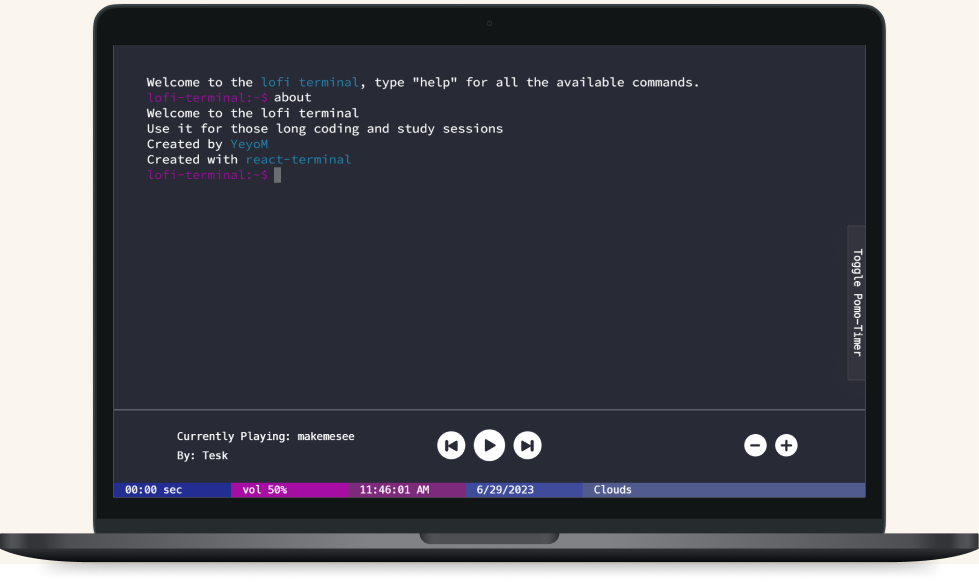
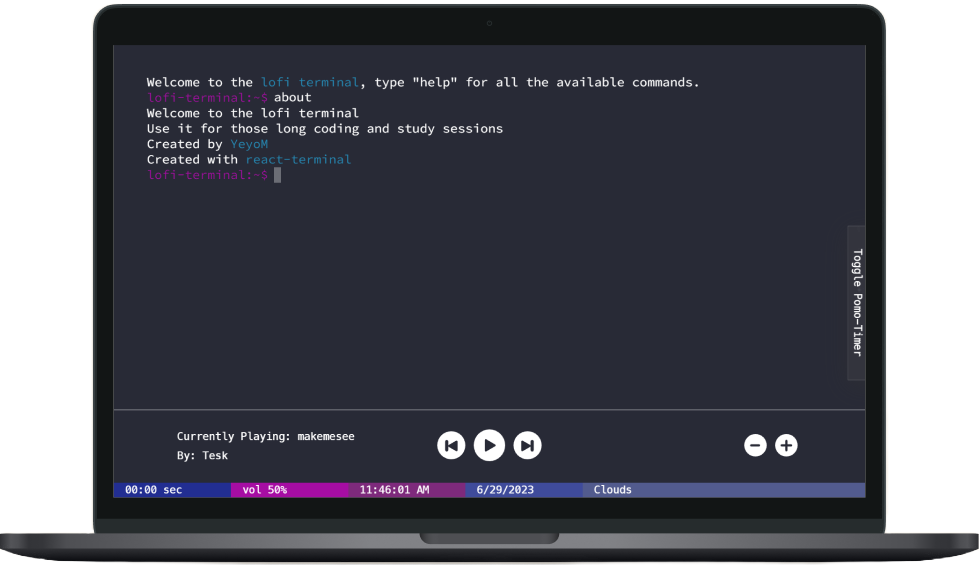
style: :art: Removed background from images and handled resized

Changed region(s): [[0.0306, 0.9588, 0.9499, 0.9897]]

diff --git a/app/page.js b/app/page.js
@@ -1,6 +1,6 @@
-import Image from 'next/image'
-import Navbar from './components/navbar'
-import Footer from './components/footer'
+import Image from "next/image";
+import Navbar from "./components/navbar";
+import Footer from "./components/footer";
 
 export default function Home() {
   return (
@@ -10,29 +10,38 @@ export default function Home() {
         {/* Hero */}
         <div className="flex flex-col w-[90%] max-w-[990px] mt-36">
           <h3 className="text-3xl font-normal text-black tracking-wide sm:text-4xl md:text-5xl">
-          hey, this is Diego! <br />
-          a <span className="font-semibold italic text-[#2292BF]"> software engineer </span> making <br />
-          sites more accessible and <br />
-          reliable. 
+            hey, this is Diego! <br />
+            an aspiring{" "}
+            <span className="font-semibold italic text-[#2292BF]">
+              {" "}
+              site reliability engineer{" "}
+            </span>{" "}
+            making sites more accessible and reliable.
           </h3>
         </div>
         <hr className="w-[90%] max-w-[990px] border-black border-opacity-50 mt-12" />
         {/* Status */}
         <div className="flex flex-col w-[90%] max-w-[990px] mt-6">
           <p className="text-md font-normal text-black tracking-wide">
-          Currently. <span className="italic font-semibold">Computer Science student @ UAA</span>
+            Currently.{" "}
+            <span className="italic font-semibold">
+              Computer Science student @ UAA
+            </span>
           </p>
           <p className="text-md font-normal text-black tracking-wide">
-          Previously. <span className="italic font-semibold">Site Reliability Engineer Fellow @ MLH </span>
+            Previously.{" "}
+            <span className="italic font-semibold">
+              Site Reliability Engineer Fellow @ MLH{" "}
+            </span>
           </p>
           <p className="text-md font-normal text-black tracking-wide">
-          Status. <span className="italic font-semibold">Open to work </span>
+            Status. <span className="italic font-semibold">Open to work </span>
           </p>
         </div>
         {/* Experience */}
         <div className="flex flex-col w-[90%] max-w-[990px] mt-24">
           <p className="text-2xl font-normal text-black tracking-wide italic">
-          Experience
+            Experience
           </p>
           <hr className="w-full border-black border-opacity-50 mt-2" />
           <div className="flex flex-row items-center justify-between mt-6">
@@ -42,6 +51,7 @@ export default function Home() {
                 alt="mlh-logo"
                 width={100}
                 height={100}
+                className="w-[100px] h-[100px]"
               />
               <div className="flex flex-col ml-4">
                 <p className="sm:text-[1rem] text-sm font-semibold text-black tracking-wide">
@@ -53,7 +63,7 @@ export default function Home() {
               </div>
             </div>
             <div className="flex flex-row items-center justify-center">
-              <a 
+              <a
                 className="sm:text-[1rem] text-sm font-semibold text-[#2292BF] tracking-wide hover:underline decoration-2 decoration-[#2292BF] flex flex-row items-center justify-center ml-2"
                 href="/mlh-fellowship"
               >
@@ -80,7 +90,8 @@ export default function Home() {
                 src="/lofi-terminal.png"
                 alt="lofi-terminal"
                 width={150}
-                height={150}
+                height={100}
+                className="w-[150px] h-[100px]"
               />
               <div className="flex flex-col ml-4">
                 <p className="sm:text-[1rem] text-sm font-semibold text-black tracking-wide">
@@ -95,7 +106,7 @@ export default function Home() {
               </div>
             </div>
             <div className="flex flex-row items-center justify-center ml-2">
-              <a 
+              <a
                 className="sm:text-[1rem] text-sm font-semibold text-[#2292BF] tracking-wide hover:underline decoration-2 decoration-[#2292BF] flex flex-row items-center justify-center"
                 href="/lofi-terminal"
               >
@@ -115,7 +126,8 @@ export default function Home() {
                 src="/wellness.png"
                 alt="wellness"
                 width={150}
-                height={150}
+                height={95}
+                className="w-[150px] h-[95px]"
               />
               <div className="flex flex-col ml-4">
                 <p className="sm:text-[1rem] text-sm font-semibold text-black tracking-wide">
@@ -130,7 +142,7 @@ export default function Home() {
               </div>
             </div>
             <div className="flex flex-row items-center justify-center ml-2">
-              <a 
+              <a
                 className="sm:text-[1rem] text-sm font-semibold text-[#2292BF] tracking-wide hover:underline decoration-2 decoration-[#2292BF] flex flex-row items-center justify-center"
                 href="/wellness"
               >
@@ -150,7 +162,8 @@ export default function Home() {
                 src="/maze-solver.png"
                 alt="maze-solver"
                 width={150}
-                height={150}
+                height={100}
+                className="w-[150px] h-[100px]"
               />
               <div className="flex flex-col ml-4">
                 <p className="sm:text-[1rem] text-sm font-semibold text-black tracking-wide">
@@ -165,7 +178,7 @@ export default function Home() {
               </div>
             </div>
             <div className="flex flex-row items-center justify-center ml-2">
-              <a 
+              <a
                 className="sm:text-[1rem] text-sm font-semibold text-[#2292BF] tracking-wide hover:underline decoration-2 decoration-[#2292BF] flex flex-row items-center justify-center"
                 href="https://github.com/YeyoM/mazeSolver"
                 target="_blank"
@@ -186,7 +199,8 @@ export default function Home() {
                 src="/cocktail-please.png"
                 alt="cocktail-please"
                 width={150}
-                height={150}
+                height={95}
+                className="w-[150px] h-[95px]"
               />
               <div className="flex flex-col ml-4">
                 <p className="sm:text-[1rem] text-sm font-semibold text-black tracking-wide">
@@ -201,7 +215,7 @@ export default function Home() {
               </div>
             </div>
             <div className="flex flex-row items-center justify-center ml-2">
-              <a 
+              <a
                 className="sm:text-[1rem] text-sm font-semibold text-[#2292BF] tracking-wide hover:underline decoration-2 decoration-[#2292BF] flex flex-row items-center justify-center"
                 href="/cocktail-please"
               >
@@ -217,10 +231,8 @@ export default function Home() {
           </div>
         </div>
 
-       <Footer />
-
+        <Footer />
       </div>
-
     </main>
-  )
+  );
 }
